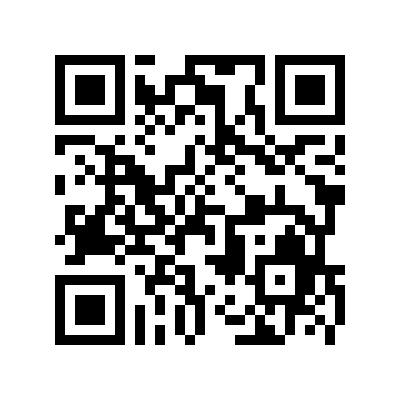
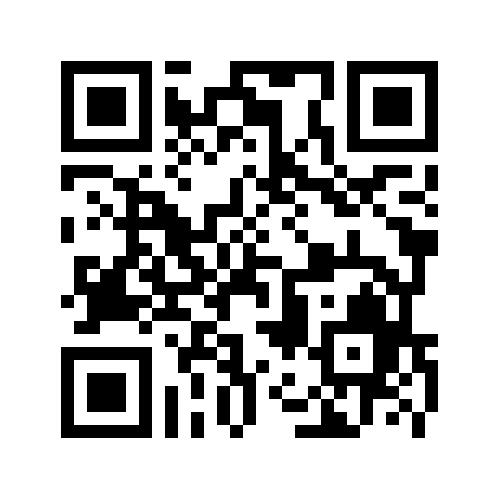
update lại size của qr code

Changed region(s): [[0.12, 0.12, 0.9, 0.9]]

diff --git a/src/com/Main/Menu_Admin.java b/src/com/Main/Menu_Admin.java
@@ -3636,17 +3636,17 @@ public class Menu_Admin extends javax.swing.JFrame {
         cardQRCode.setLayout(cardQRCodeLayout);
         cardQRCodeLayout.setHorizontalGroup(
             cardQRCodeLayout.createParallelGroup(javax.swing.GroupLayout.Alignment.LEADING)
-            .addGroup(cardQRCodeLayout.createSequentialGroup()
-                .addGap(325, 325, 325)
-                .addComponent(QRCode, javax.swing.GroupLayout.PREFERRED_SIZE, 400, javax.swing.GroupLayout.PREFERRED_SIZE)
-                .addContainerGap(325, Short.MAX_VALUE))
+            .addGroup(javax.swing.GroupLayout.Alignment.TRAILING, cardQRCodeLayout.createSequentialGroup()
+                .addContainerGap(297, Short.MAX_VALUE)
+                .addComponent(QRCode, javax.swing.GroupLayout.PREFERRED_SIZE, 500, javax.swing.GroupLayout.PREFERRED_SIZE)
+                .addGap(253, 253, 253))
         );
         cardQRCodeLayout.setVerticalGroup(
             cardQRCodeLayout.createParallelGroup(javax.swing.GroupLayout.Alignment.LEADING)
-            .addGroup(javax.swing.GroupLayout.Alignment.TRAILING, cardQRCodeLayout.createSequentialGroup()
-                .addContainerGap(71, Short.MAX_VALUE)
-                .addComponent(QRCode, javax.swing.GroupLayout.PREFERRED_SIZE, 400, javax.swing.GroupLayout.PREFERRED_SIZE)
-                .addGap(69, 69, 69))
+            .addGroup(cardQRCodeLayout.createSequentialGroup()
+                .addContainerGap()
+                .addComponent(QRCode, javax.swing.GroupLayout.PREFERRED_SIZE, 500, javax.swing.GroupLayout.PREFERRED_SIZE)
+                .addContainerGap(35, Short.MAX_VALUE))
         );
 
         jplMain.add(cardQRCode, "card3");
@@ -5609,7 +5609,7 @@ public class Menu_Admin extends javax.swing.JFrame {
             String filePath = "Du_An_1.jpg";
             File destination = new File("img_QR_Code", filePath);
             filePath = Paths.get(destination.getAbsolutePath()).toString();
-            int size = 400;
+            int size = 500;
             String fileType = "jpg";
             File qrFile = new File(filePath);
             QR_Code_Util.createQRImage(qrFile, qrCodeText, size, fileType);
